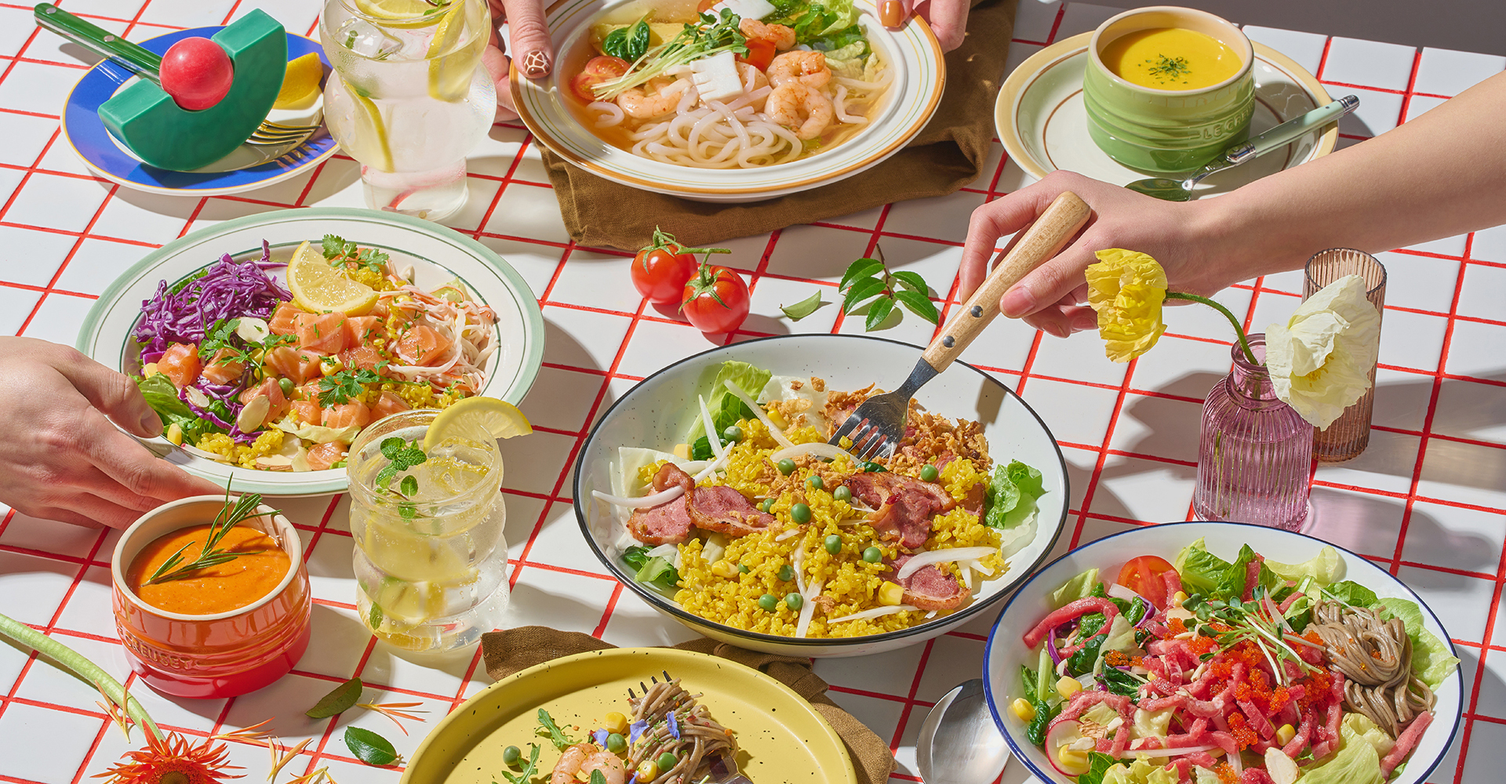
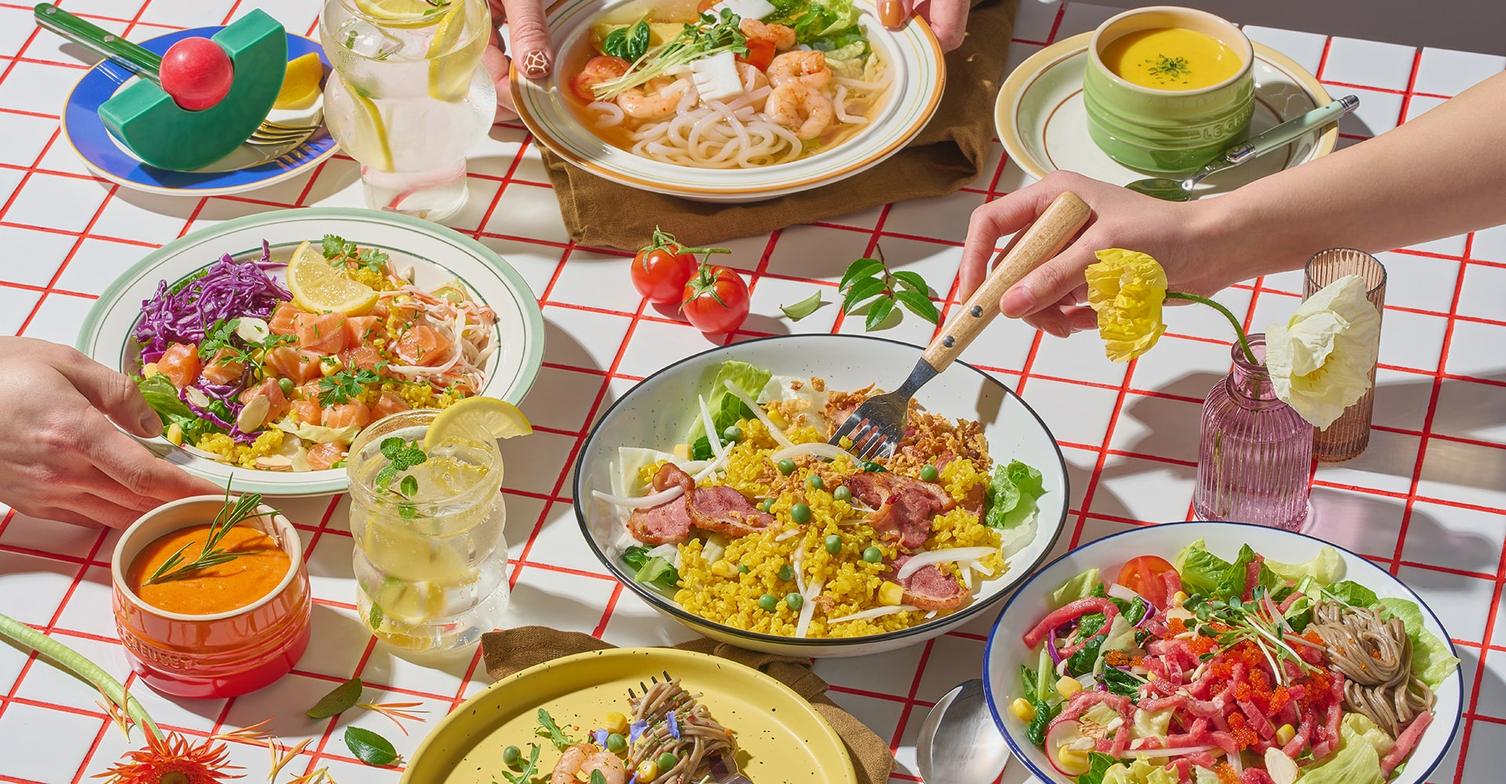
모바일 반응형 수정작업 및 이미지 컴프레셔 진행완료

diff --git a/public/scss/etc/_event_detail.scss b/public/scss/etc/_event_detail.scss
@@ -182,7 +182,7 @@
                         flex-direction: column;
                         align-items: flex-start;
                         justify-content: flex-start;
-                        padding: 20px 20px;
+                        padding: 20px 10px;
                         h2 {
                             width: 100%;
                             font-size: 20px;    
@@ -197,7 +197,7 @@
                         }
                     }
                     .bottom {
-                        padding: 40px 20px;
+                        padding: 40px 10px;
                     }
                 }
             }

diff --git a/public/js/menu/side.js b/public/js/menu/side.js
@@ -7,7 +7,7 @@ let sideMenu = [
   {img: "pumpkin.png", title: "단호박 스프", text: "Sweet Pumpkin Soup"},
   {img: "mushroom.png", title: "양송이 스프", text: "Mushroom Soup"},
   {img: "Kohlslow.png", title: "코울슬로", text: "Kohlslow"},
-  {img: "seaWrap.png", title: "씨랩", text: "Sea Wrap"},
+  {img: "SeaWrap.png", title: "씨랩", text: "Sea Wrap"},
   {img: "meetWrap.png", title: "미트랩", text: "Meet Wrap"},
   {img: "noodleSalad.png", title: "들기름 메밀면 샐러드", text: "Perilla Oil Soba Noodles Salad"},
   {img: "tofuRoll.png", title: "두부롤", text: "Tofu Rolled"},

diff --git a/public/css/style.css b/public/css/style.css
@@ -6127,7 +6127,7 @@ body, input, button, select, textarea {
     flex-direction: column;
     align-items: flex-start;
     justify-content: flex-start;
-    padding: 20px 20px;
+    padding: 20px 10px;
   }
   #container.event_detail .cont2 .center .eventDetailWrap .top h2 {
     width: 100%;
@@ -6142,6 +6142,6 @@ body, input, button, select, textarea {
     display: none;
   }
   #container.event_detail .cont2 .center .eventDetailWrap .bottom {
-    padding: 40px 20px;
+    padding: 40px 10px;
   }
 }
